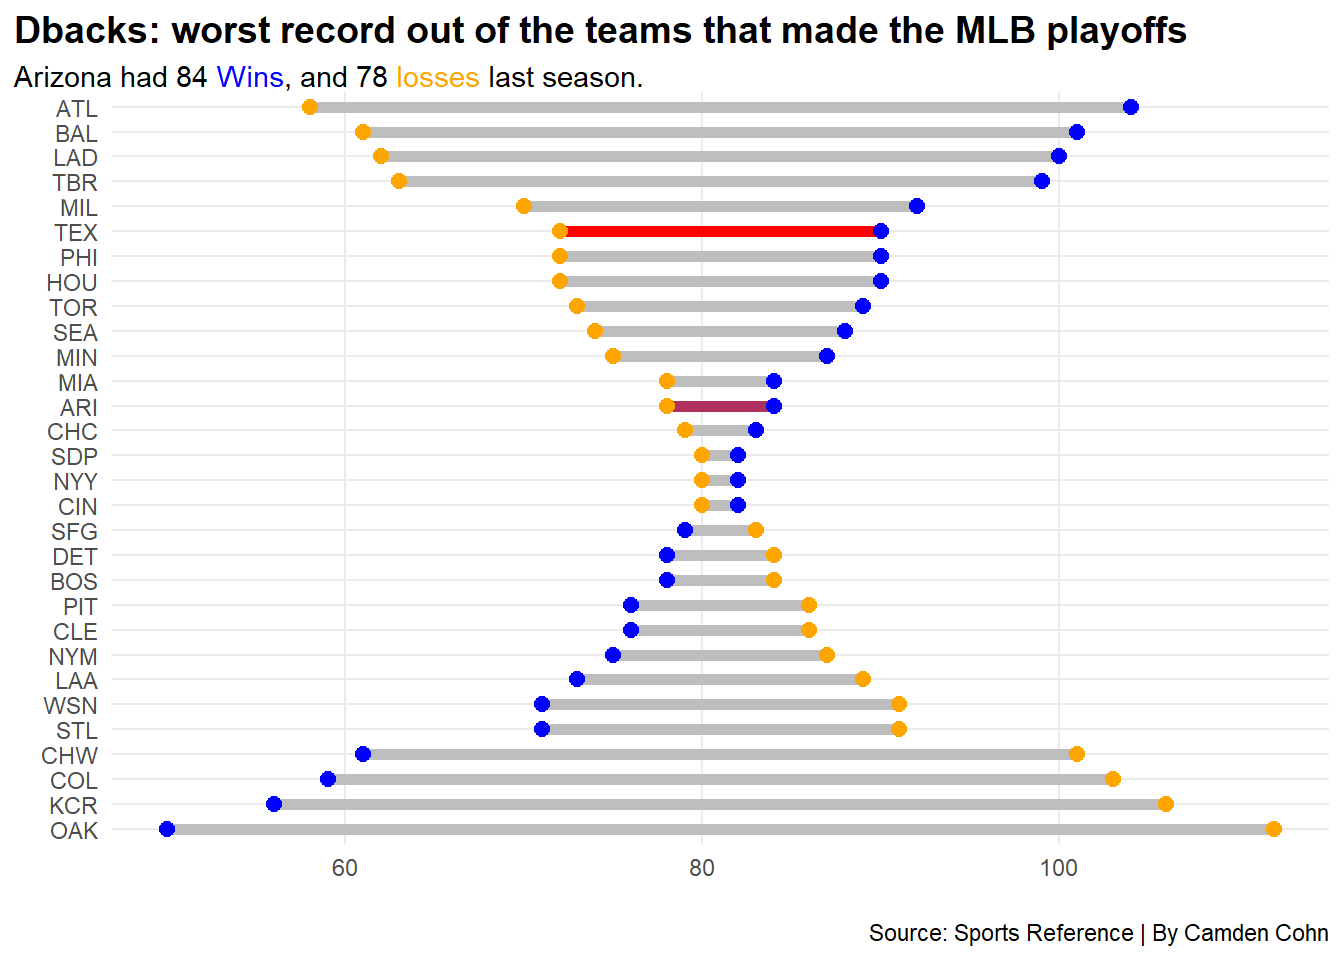
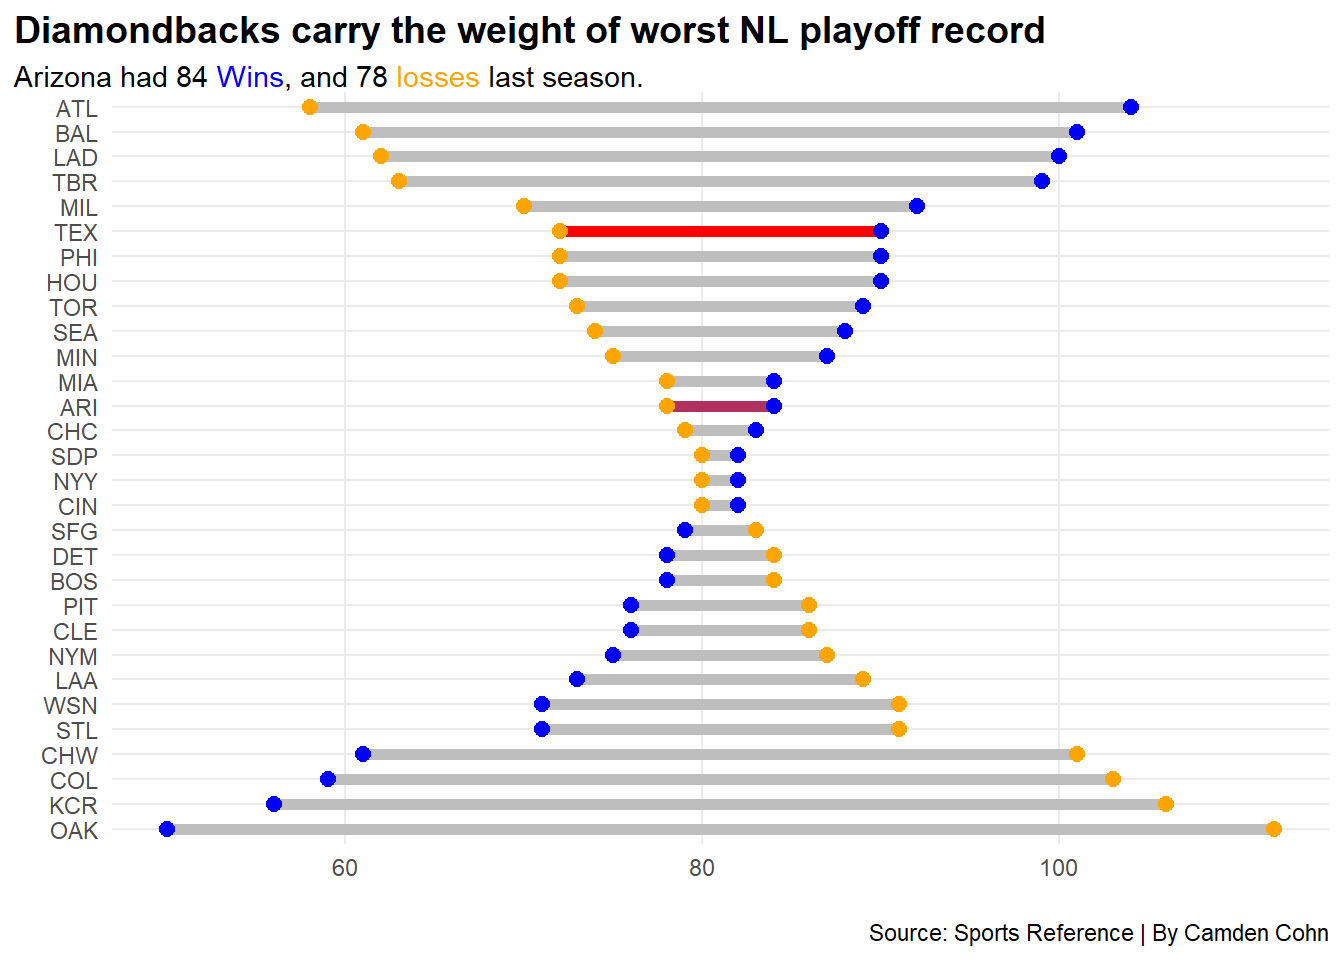
Final Draft

Changed region(s): [[0.0312, 0.0, 0.875, 0.0625]]

diff --git a/posts/were-the-diamondbacks-the-most-unlikely-team-to-make-the-world-series/index.html b/posts/were-the-diamondbacks-the-most-unlikely-team-to-make-the-world-series/index.html
@@ -278,7 +278,7 @@ pre > code.sourceCode > span > a:first-child::before { text-decoration: underlin
 <span id="cb1-92"><a href="#cb1-92" aria-hidden="true" tabindex="-1"></a>  <span class="fu">labs</span>(</span>
 <span id="cb1-93"><a href="#cb1-93" aria-hidden="true" tabindex="-1"></a>    <span class="at">x=</span><span class="st">""</span>, </span>
 <span id="cb1-94"><a href="#cb1-94" aria-hidden="true" tabindex="-1"></a>    <span class="at">y=</span><span class="st">""</span>, </span>
-<span id="cb1-95"><a href="#cb1-95" aria-hidden="true" tabindex="-1"></a>    <span class="at">title=</span><span class="st">"Dbacks: worst record out of the teams that made the MLB playoffs"</span>, </span>
+<span id="cb1-95"><a href="#cb1-95" aria-hidden="true" tabindex="-1"></a>    <span class="at">title=</span><span class="st">"Diamondbacks carry the weight of worst NL playoff record"</span>, </span>
 <span id="cb1-96"><a href="#cb1-96" aria-hidden="true" tabindex="-1"></a>    <span class="at">subtitle=</span><span class="st">"Arizona had 84 &lt;span style = 'color:blue;'&gt;Wins&lt;/span&gt;, and 78 &lt;span style = 'color:orange;'&gt;losses&lt;/span&gt; last season."</span>, </span>
 <span id="cb1-97"><a href="#cb1-97" aria-hidden="true" tabindex="-1"></a>    <span class="at">caption=</span><span class="st">"Source: Sports Reference | By Camden Cohn"</span></span>
 <span id="cb1-98"><a href="#cb1-98" aria-hidden="true" tabindex="-1"></a>    ) <span class="sc">+</span></span>
@@ -332,8 +332,8 @@ pre > code.sourceCode > span > a:first-child::before { text-decoration: underlin
 <span id="cb2-30"><a href="#cb2-30" aria-hidden="true" tabindex="-1"></a>  <span class="fu">labs</span>(</span>
 <span id="cb2-31"><a href="#cb2-31" aria-hidden="true" tabindex="-1"></a>    <span class="at">x=</span><span class="st">"Runs Scored Per Game"</span>, </span>
 <span id="cb2-32"><a href="#cb2-32" aria-hidden="true" tabindex="-1"></a>    <span class="at">y=</span><span class="st">"Runs Allowed Per Game"</span>, </span>
-<span id="cb2-33"><a href="#cb2-33" aria-hidden="true" tabindex="-1"></a>    <span class="at">title=</span><span class="st">"From Mediocrity to the World Series"</span>, </span>
-<span id="cb2-34"><a href="#cb2-34" aria-hidden="true" tabindex="-1"></a>    <span class="at">subtitle=</span><span class="st">"The Diamondbacks allowed more runs per game than average and scored less runs per game </span><span class="sc">\n</span><span class="st"> than the average MLB team."</span>, </span>
+<span id="cb2-33"><a href="#cb2-33" aria-hidden="true" tabindex="-1"></a>    <span class="at">title=</span><span class="st">"From mediocrity to the World Series"</span>, </span>
+<span id="cb2-34"><a href="#cb2-34" aria-hidden="true" tabindex="-1"></a>    <span class="at">subtitle=</span><span class="st">"The Diamondbacks allowed more runs per game and scored less than MLB average."</span>, </span>
 <span id="cb2-35"><a href="#cb2-35" aria-hidden="true" tabindex="-1"></a>    <span class="at">caption=</span><span class="st">"Source: Sports Reference | By Camden Cohn"</span>,</span>
 <span id="cb2-36"><a href="#cb2-36" aria-hidden="true" tabindex="-1"></a>    <span class="at">size =</span> <span class="st">"Run Differential"</span></span>
 <span id="cb2-37"><a href="#cb2-37" aria-hidden="true" tabindex="-1"></a>    ) <span class="sc">+</span></span>
@@ -379,12 +379,12 @@ pre > code.sourceCode > span > a:first-child::before { text-decoration: underlin
 <span id="cb3-22"><a href="#cb3-22" aria-hidden="true" tabindex="-1"></a>  )</span>
 <span id="cb3-23"><a href="#cb3-23" aria-hidden="true" tabindex="-1"></a>bar1 <span class="sc">+</span> bar2 <span class="sc">+</span></span>
 <span id="cb3-24"><a href="#cb3-24" aria-hidden="true" tabindex="-1"></a> <span class="fu">plot_annotation</span>(</span>
-<span id="cb3-25"><a href="#cb3-25" aria-hidden="true" tabindex="-1"></a>    <span class="at">title =</span> <span class="st">"The Diamondbacks were not the most overpowering team in the league"</span>,</span>
+<span id="cb3-25"><a href="#cb3-25" aria-hidden="true" tabindex="-1"></a>    <span class="at">title =</span> <span class="st">"Diamondbacks prove power isn't everything"</span>,</span>
 <span id="cb3-26"><a href="#cb3-26" aria-hidden="true" tabindex="-1"></a>    <span class="at">subtitle =</span> <span class="st">"They were in the bottom third of the league in both home runs and batters struck out."</span>,</span>
 <span id="cb3-27"><a href="#cb3-27" aria-hidden="true" tabindex="-1"></a>    <span class="at">caption =</span> <span class="st">"Source: Sports Reference | By Camden Cohn"</span></span>
 <span id="cb3-28"><a href="#cb3-28" aria-hidden="true" tabindex="-1"></a>  ) <span class="sc">&amp;</span></span>
 <span id="cb3-29"><a href="#cb3-29" aria-hidden="true" tabindex="-1"></a>  <span class="fu">theme</span>(</span>
-<span id="cb3-30"><a href="#cb3-30" aria-hidden="true" tabindex="-1"></a>    <span class="at">plot.title =</span> <span class="fu">element_text</span>(<span class="at">size =</span> <span class="dv">14</span>, <span class="at">face =</span> <span class="st">"bold"</span>),</span>
+<span id="cb3-30"><a href="#cb3-30" aria-hidden="true" tabindex="-1"></a>    <span class="at">plot.title =</span> <span class="fu">element_text</span>(<span class="at">size =</span> <span class="dv">18</span>, <span class="at">face =</span> <span class="st">"bold"</span>),</span>
 <span id="cb3-31"><a href="#cb3-31" aria-hidden="true" tabindex="-1"></a>    <span class="at">axis.title =</span> <span class="fu">element_text</span>(<span class="at">size =</span> <span class="dv">8</span>), </span>
 <span id="cb3-32"><a href="#cb3-32" aria-hidden="true" tabindex="-1"></a>    <span class="at">plot.subtitle =</span> <span class="fu">element_text</span>(<span class="at">size=</span><span class="dv">10</span>), </span>
 <span id="cb3-33"><a href="#cb3-33" aria-hidden="true" tabindex="-1"></a>    <span class="at">panel.grid.minor =</span> <span class="fu">element_blank</span> (),</span>

diff --git a/index.html b/index.html
@@ -165,7 +165,7 @@ ul.task-list li input[type="checkbox"] {
 
 <div class="quarto-listing quarto-listing-container-default" id="listing-listing">
 <div class="list quarto-listing-default">
-<div class="quarto-post image-right" data-index="0" data-categories="Baseball,Diamondbacks,Code" data-listing-date-sort="1699509600000" data-listing-file-modified-sort="1699634105379" data-listing-date-modified-sort="NaN" data-listing-reading-time-sort="7">
+<div class="quarto-post image-right" data-index="0" data-categories="Baseball,Diamondbacks,Code" data-listing-date-sort="1699509600000" data-listing-file-modified-sort="1699635260053" data-listing-date-modified-sort="NaN" data-listing-reading-time-sort="7">
 <div class="thumbnail">
 <p><a href="./posts/were-the-diamondbacks-the-most-unlikely-team-to-make-the-world-series/index.html"> <img src="./posts/were-the-diamondbacks-the-most-unlikely-team-to-make-the-world-series/image.png" class="thumbnail-image"> </a></p>
 </div>
